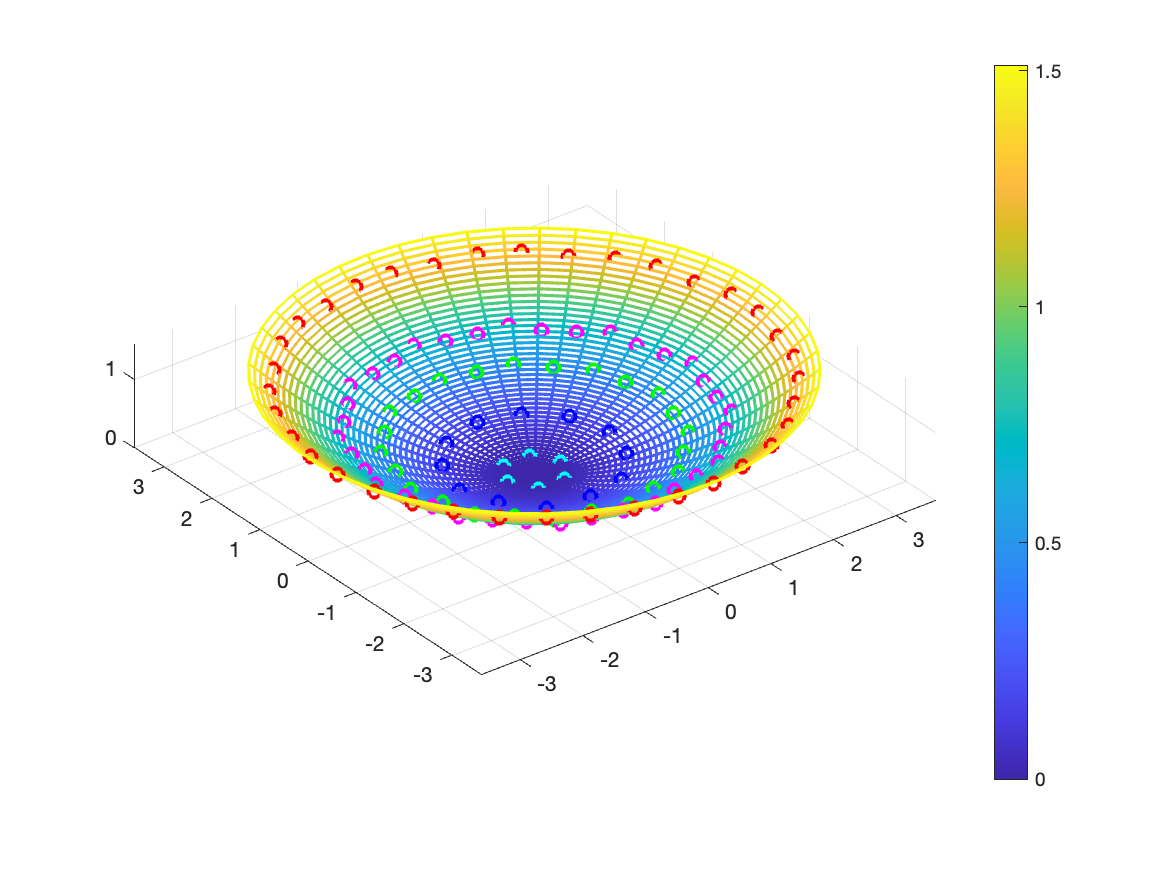
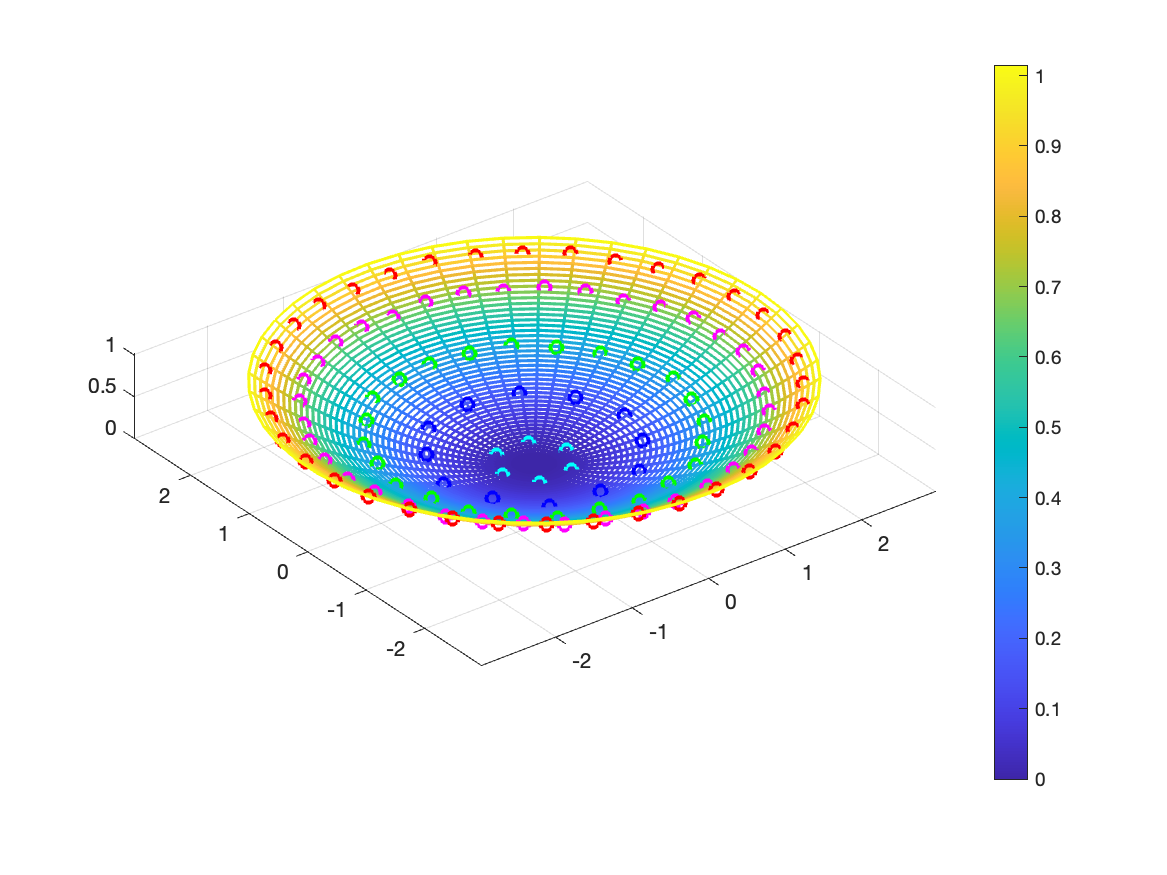
modified ignore

diff --git a/opt3D.m b/opt3D.m
@@ -32,7 +32,7 @@ options = optimoptions('ga', ...
     'Display', 'iter');
 
 lb = [0.4.*ones(1, 4), -3 .*ones(1, 6), 0.4 .*ones(1, 5)];
-ub = [1 .*ones(1, 4), 3 .*ones(1, 6), 0.6 .*ones(1, 4), 1];
+ub = [1 .*ones(1, 4), 3 .*ones(1, 6), 0.5 .*ones(1, 4), 1];
 
 %调用 ga 函数进行优化
 [X_0, result] = ga(@obj_antenna, numel(X_0), A, b,[],[],lb,ub,[],options);
